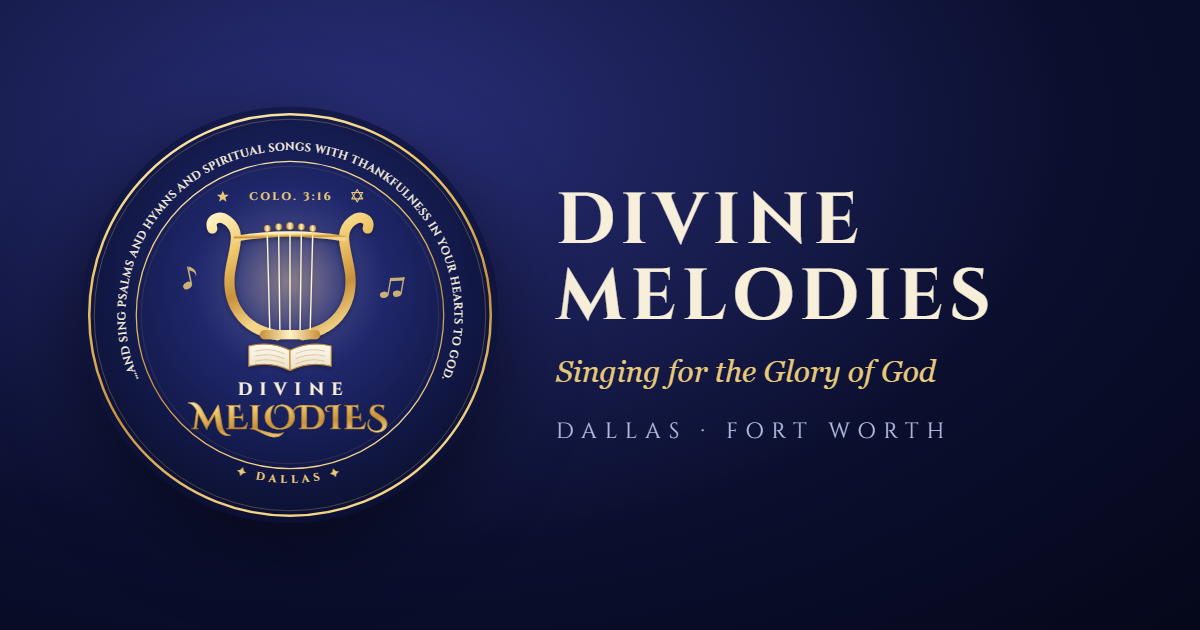
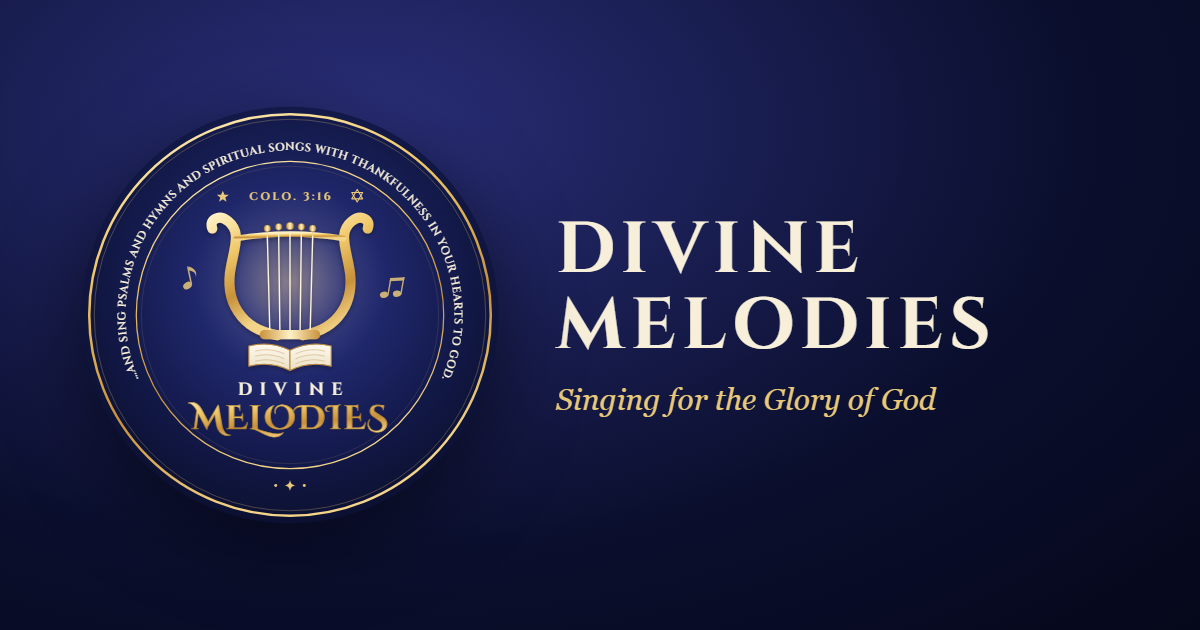
Remove Dallas references outside About Us
Drop "Dallas" from the logo (replaced with a small ornament), page
title, hero, keywords, social card, README and the mission card.
Location is now only mentioned in the About Us section.

Changed region(s): [[0.4625, 0.3016, 0.8325, 0.6937], [0.2158, 0.754, 0.2775, 0.7841]]

diff --git a/index.html b/index.html
@@ -3,16 +3,16 @@
 <head>
     <meta charset="UTF-8">
     <meta name="viewport" content="width=device-width, initial-scale=1.0">
-    <title>Divine Melodies | Dallas</title>
+    <title>Divine Melodies</title>
     <meta name="description" content="Divine Melodies - a group of musicians, dedicated to evangelization through music and worship.">
-    <meta name="keywords" content="Divine Melodies, Christian music, worship band, DFW, Texas, evangelization, gospel music">
+    <meta name="keywords" content="Divine Melodies, Christian music, worship band, evangelization, gospel music">
     <meta name="author" content="Divine Melodies">
     <meta name="theme-color" content="#070a1f">
     <link rel="canonical" href="https://divinemelodies.org/">
 
     <!-- Social -->
     <meta property="og:type" content="website">
-    <meta property="og:title" content="Divine Melodies | Dallas">
+    <meta property="og:title" content="Divine Melodies">
     <meta property="og:description" content="A group of musicians dedicated to evangelization through music and worship.">
     <meta property="og:url" content="https://divinemelodies.org/">
     <meta property="og:image" content="https://divinemelodies.org/images/og-image.png">
@@ -67,7 +67,6 @@
                 </div>
 
                 <div class="hero-copy">
-                    <p class="eyebrow reveal">Dallas</p>
                     <h1 class="reveal">Divine <em>Melodies</em></h1>
                     <p class="hero-tagline reveal">Singing for the Glory of God</p>
 
@@ -128,7 +127,7 @@
                             <svg viewBox="0 0 48 48"><path d="M18 36V12l20-4v24"/><circle cx="13" cy="36" r="5"/><circle cx="33" cy="32" r="5"/><path d="M18 18l20-4"/></svg>
                         </div>
                         <h3>Evangelization Events</h3>
-                        <p>Sharing the Gospel at local events across the DFW area and beyond.</p>
+                        <p>Sharing the Gospel at local events and beyond.</p>
                     </article>
                     <article class="pillar reveal">
                         <div class="pillar-icon" aria-hidden="true">

diff --git a/js/main.js b/js/main.js
@@ -160,7 +160,7 @@
             if (!response.ok) throw new Error('Request failed');
             form.reset();
             setStatus('Thank you for your message! We will get back to you soon. God bless!', 'success');
-        } catch (err) {
+        } catch {
             setStatus('Sorry, something went wrong sending your message. Please try again shortly.', 'error');
         } finally {
             button.disabled = false;

diff --git a/design/build_logo.py b/design/build_logo.py
@@ -55,7 +55,6 @@ display:flex;align-items:center;gap:56px;padding:0 80px;box-sizing:border-box;fo
 img{width:420px;height:420px;filter:drop-shadow(0 20px 40px rgba(0,0,0,.5))}
 h1{font-family:Cinzel,Georgia,serif;color:#f7efd9;font-size:72px;letter-spacing:6px;margin:0;line-height:1.05}
 p{color:#e9c979;font-size:30px;margin:18px 0 0;font-style:italic}
-small{display:block;color:#b9bfe6;font-size:22px;letter-spacing:8px;margin-top:28px;font-family:Cinzel,Georgia,serif}
 """.replace("CINZEL_URI", (FONTS / "cinzel.woff2").as_uri()),
        f'<img src="{logo_uri}"><div><h1>DIVINE<br>MELODIES</h1>'
-       '<p>Singing for the Glory of God</p><small>DALLAS · FORT WORTH</small></div>')
+       '<p>Singing for the Glory of God</p></div>')

diff --git a/README.md b/README.md
@@ -1,6 +1,6 @@
 # Divine Melodies
 
-Website for **Divine Melodies** — a group of Christian musicians from the Dallas–Fort Worth area, dedicated to evangelization through music and worship. Live at [divinemelodies.org](https://divinemelodies.org).
+Website for **Divine Melodies** — a group of Christian musicians dedicated to evangelization through music and worship. Live at [divinemelodies.org](https://divinemelodies.org).
 
 ## Structure
 
